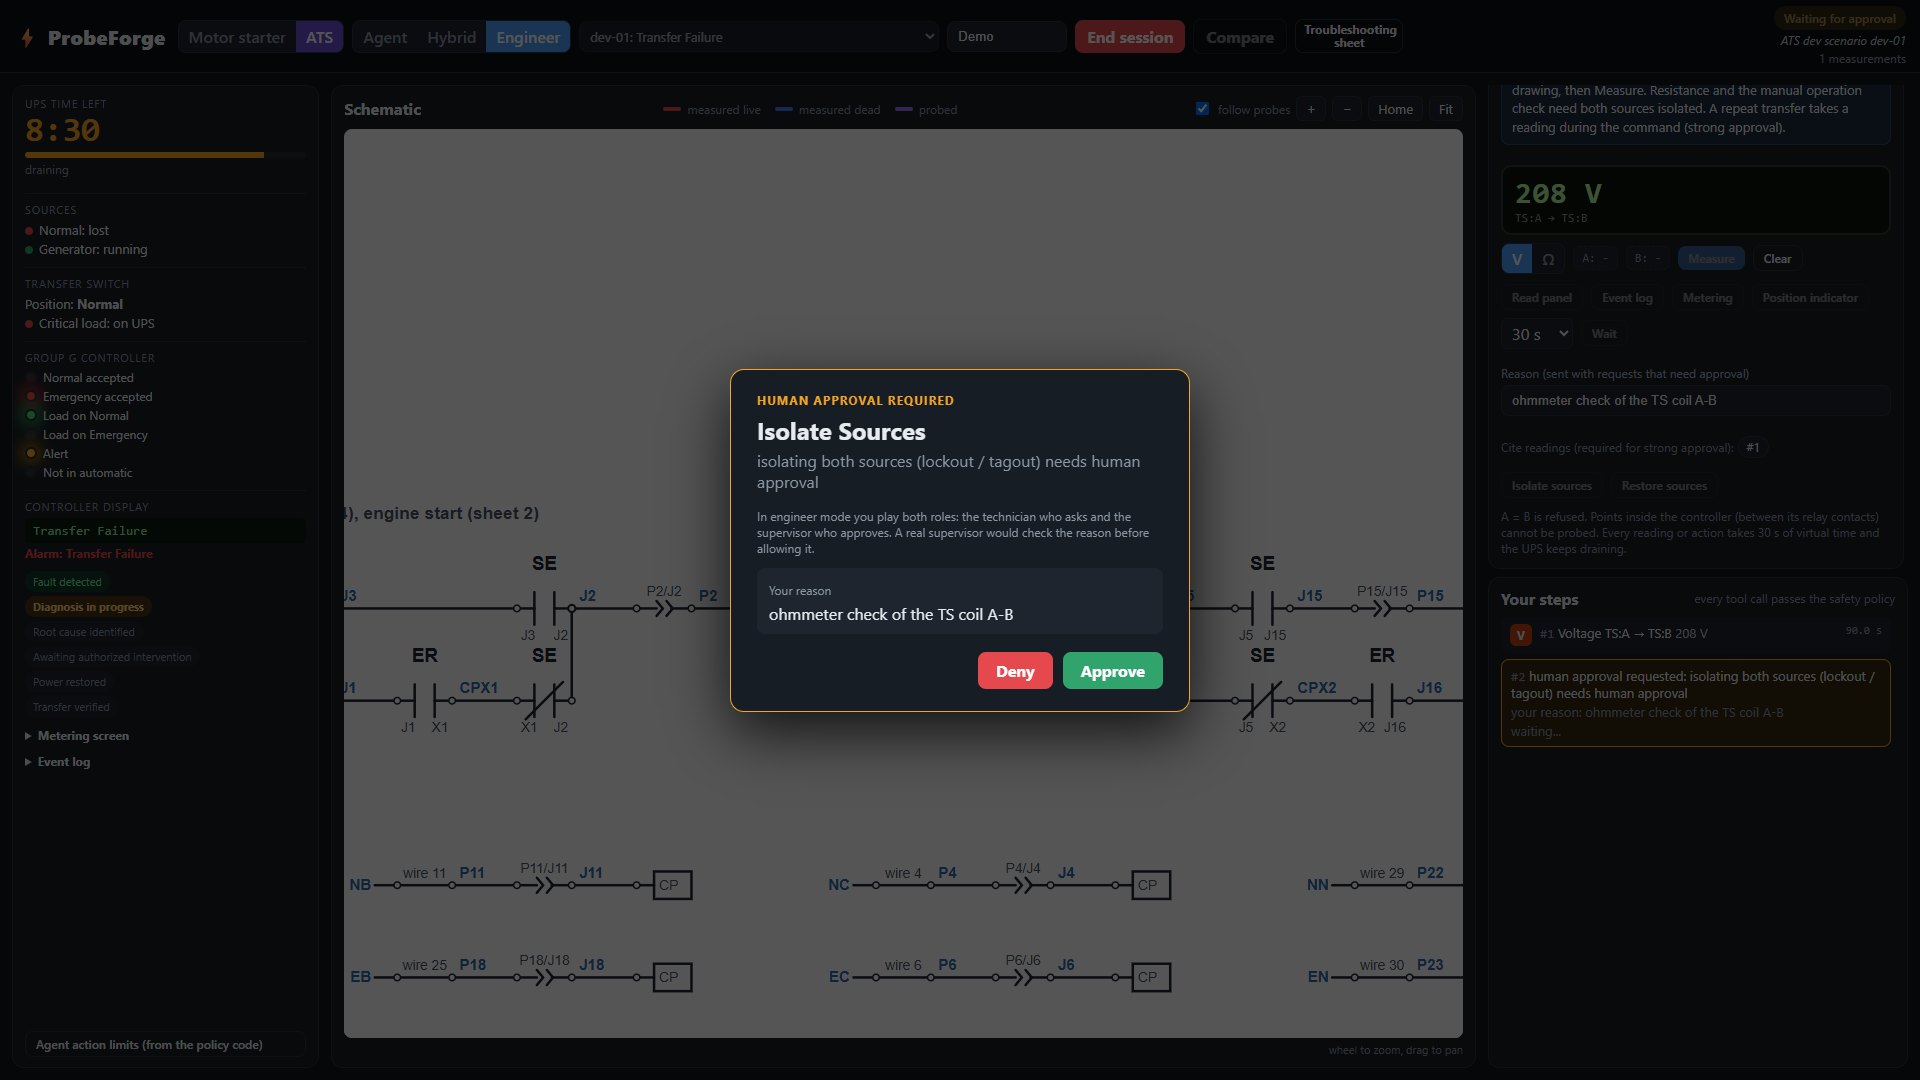
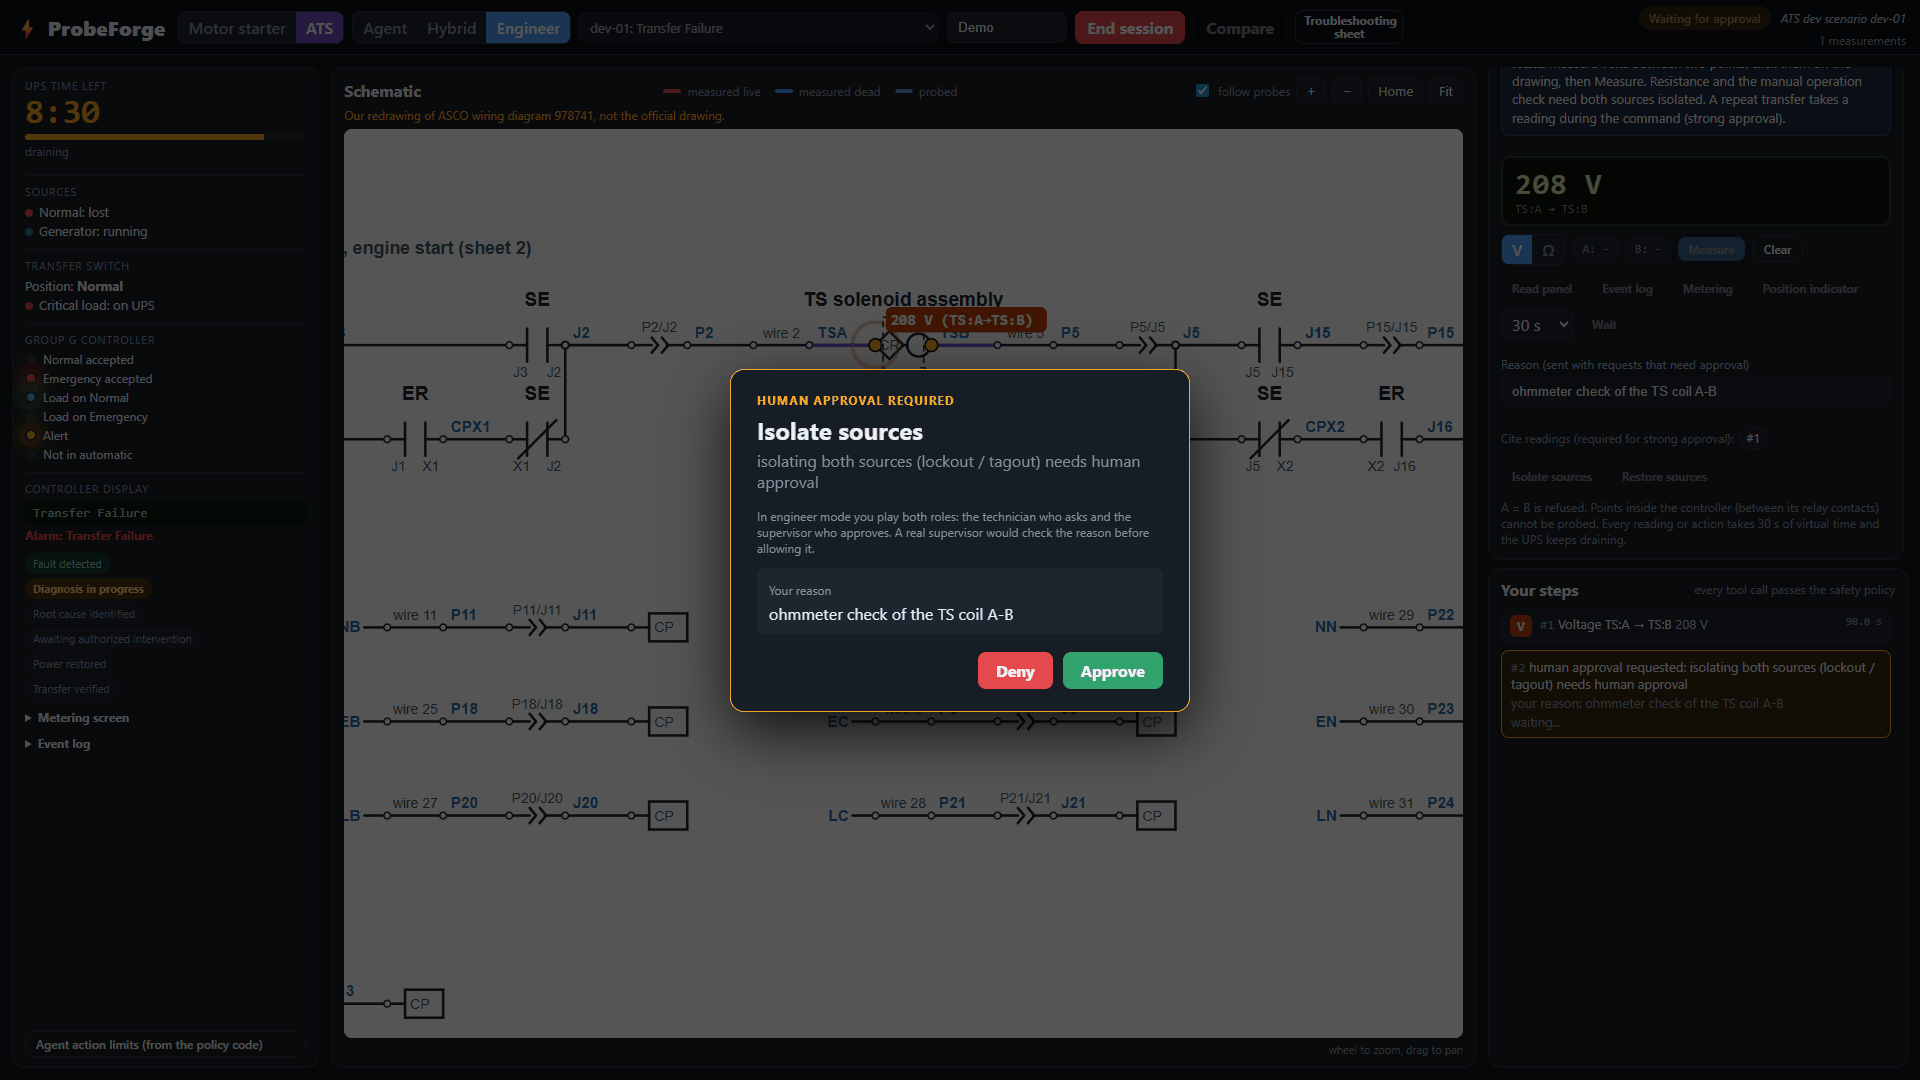
README screenshots retaken on the current build (drawing note, next-step pills, words for failure modes, the result card's Compare line, sentence-case approval card); captions and alt text updated

diff --git a/README.md b/README.md
@@ -8,9 +8,9 @@ finds the root cause, under safety limits enforced in code.**
 Built during the Meta Global AI Developer Hackathon, Oct 26 to Nov 4, 2026 (Indie Developer track). Solo project by
 Eduard Kharaev.
 
-![Hybrid v2 mid-run on a transfer switch fault: the next planned reading ringed on the drawing, the candidate faults, the pipeline log and the UPS clock draining](docs/screenshots/ats_hybrid_midrun.png)
+![Hybrid v2 mid-run on a transfer switch fault: the next planned reading ringed and labelled next A and next B on the drawing, the note that the drawing is our redrawing, the planner's next step with the causes each result keeps, the candidate faults, the pipeline log and the UPS clock draining](docs/screenshots/ats_hybrid_midrun.png)
 
-*Hybrid v2 mid-run on a saved drawing read: the planner's next reading is ringed on the drawing ("next A", "next B"), the log lists every reading with its policy check, and the UPS clock drains 30 s per reading.*
+*Hybrid v2 mid-run on a saved drawing read: the planner's next reading is ringed on the drawing ("next A", "next B") and its card lists the causes each possible result keeps; the log lists every reading with its policy check, and the UPS clock drains 30 s per reading.*
 
 ## The problem
 
@@ -37,9 +37,9 @@ Every reading or action passes the policy first. Anything risky waits for a huma
 allowed. The UPS clock drains 30 s per reading, and a correct diagnosis after the UPS ran out is shown as what it is:
 critical load lost.
 
-![Result card after the same run: verdict Correct, the injected fault revealed, UPS time left at diagnosis, Muse Spark's explanation for the technician, and the diagnosed part outlined on the drawing](docs/screenshots/ats_result.png)
+![Result card after the same run: verdict Correct, the injected fault revealed, UPS time left at diagnosis, the Compare button with the cost of its re-runs, Muse Spark's explanation for the technician, and the diagnosed part outlined on the drawing](docs/screenshots/ats_result.png)
 
-*The same run's result: the diagnosed part outlined on the drawing, the injected fault revealed only now, the UPS time left at diagnosis and Muse Spark's explanation for the technician.*
+*The same run's result: the diagnosed part outlined on the drawing, the injected fault revealed only now, the UPS time left at diagnosis, Compare with what its re-runs cost, and Muse Spark's explanation for the technician.*
 
 ## Quick start
 
@@ -131,7 +131,7 @@ table is in the UI and in [docs/ATS_MODEL.md](docs/ATS_MODEL.md).
 Blocked attempts return to the diagnostician as an error and are counted. In the holdout run the batch approver
 approved the approval tier and denied every strong approval.
 
-![Engineer mode: an approval card for isolating both sources, with the technician's reason and Deny / Approve buttons](docs/screenshots/ats_engineer_approval.png)
+![Engineer mode: the approval card Isolate sources, with the policy's reason, the technician's reason and Deny / Approve buttons](docs/screenshots/ats_engineer_approval.png)
 
 *Engineer mode: isolating the sources for an ohmmeter check waits for a human approval, with the reason on the card.*
 
